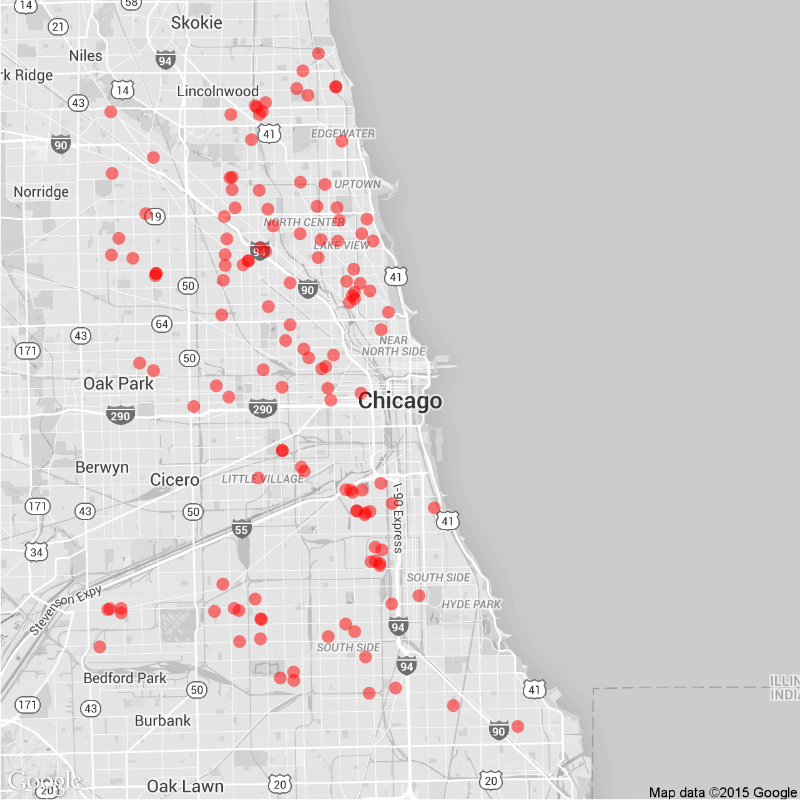
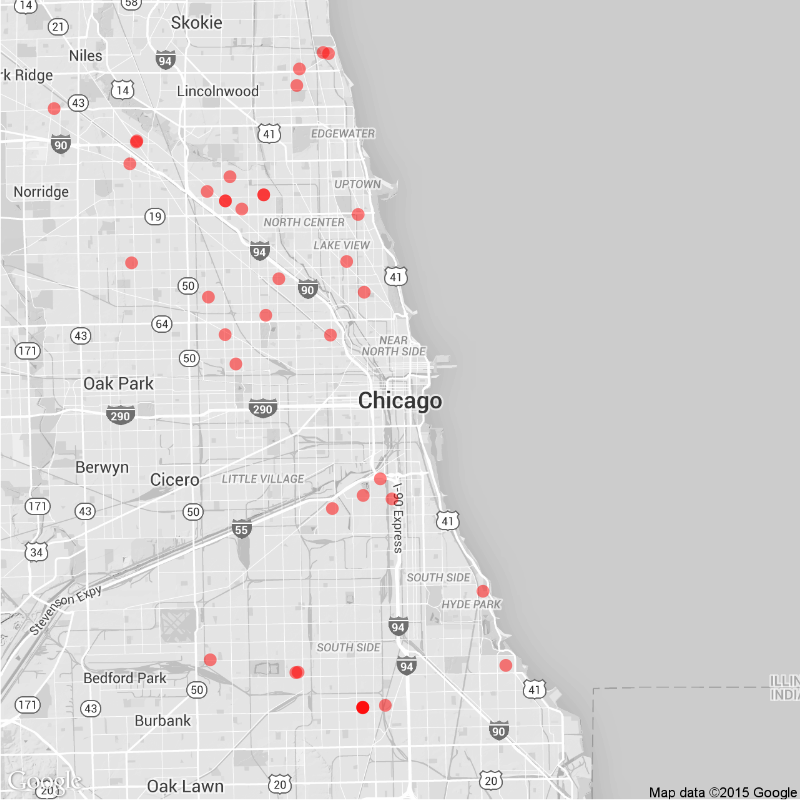
Daily Maps

diff --git a/daily.md b/daily.md
@@ -15,22 +15,22 @@ tags: Chicago NYC weekly daily rats
 
 ### Daily
 
-Yesterday (June 26), there were 135 calls to Chicago's 311 line about rats.
+Yesterday (June 27), there were 41 calls to Chicago's 311 line about rats.
 ![Chicago rat calls to 311 weekly map]({{ site.cityimages }}/daily/Chicago_Rat_Map_Daily.png)
 
 ### Weekly
-Between June 20 and June 26, there were 906 calls to Chicago's 311 line about rats. The average number of weekly calls for this time of year is 833.
+Between June 21 and June 27, there were 891 calls to Chicago's 311 line about rats. The average number of weekly calls for this time of year is 833.
 ![Chicago rat calls to 311 weekly map]({{ site.cityimages }}/daily/Chicago_Rat_Map_Weekly.png)
 ***
 # New York City <a id="nyc"><a>
 
 ### Daily
 
-Yesterday (June 26), there were 0 calls to New York City's 311 line about rats.
+Yesterday (June 27), there were 0 calls to New York City's 311 line about rats.
 ![NYC rat calls to 311 weekly map]({{ site.cityimages }}/daily/NYC_Rat_Map_Daily.png)
 
 ### Weekly
-Between June 20 and June 26, there were 0 calls to New York City's 311 line about rats. The average number of weekly calls for this time of year is 281.
+Between June 21 and June 27, there were 0 calls to New York City's 311 line about rats. The average number of weekly calls for this time of year is 281.
 ![NYC rat calls to 311 weekly map]({{ site.cityimages }}/daily/NYC_Rat_Map_Weekly.png)
 
 Each red dot represents one call about a rat seen in that location. The dots are transparent, so multiple calls from one location will be seen as a solid dot. The usual caveats apply: more calls do not necessarily mean that there are more rats in that location than other parts of the city. A cluster of dots could indicate that one resident is unusually vocal about rodents in his or her neighborhood. Also, more densely populated neighborhoods tend to make more calls to 311.
